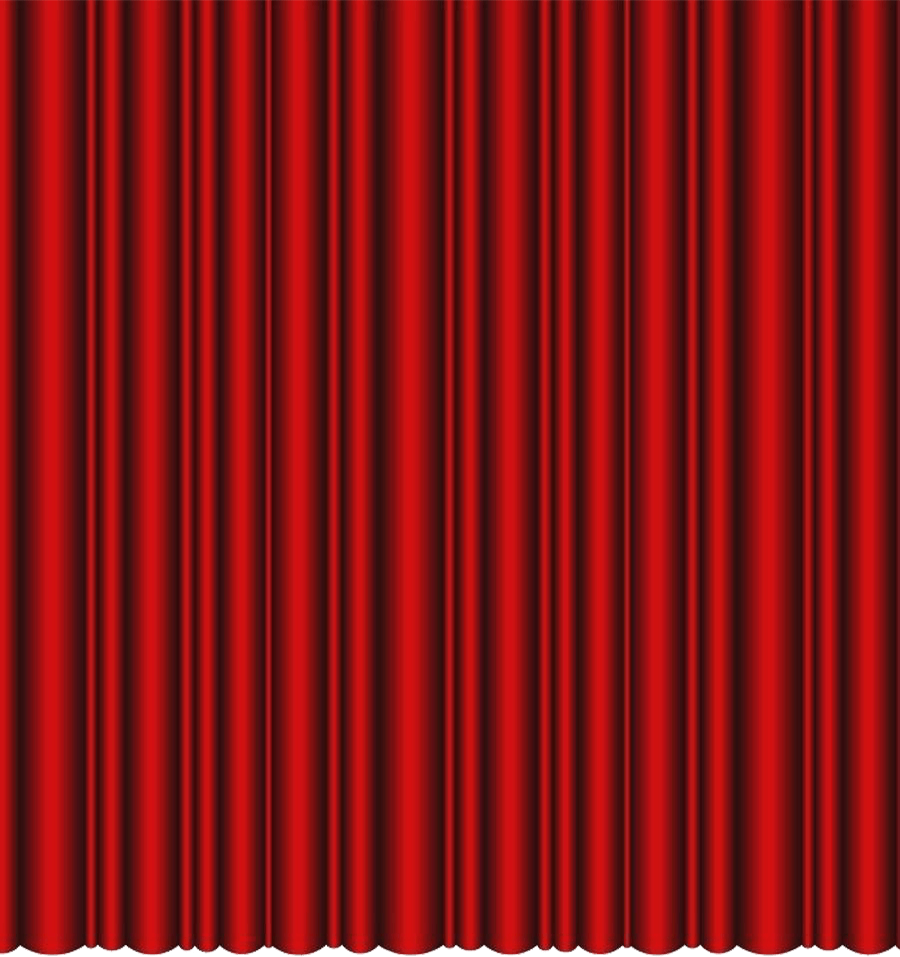
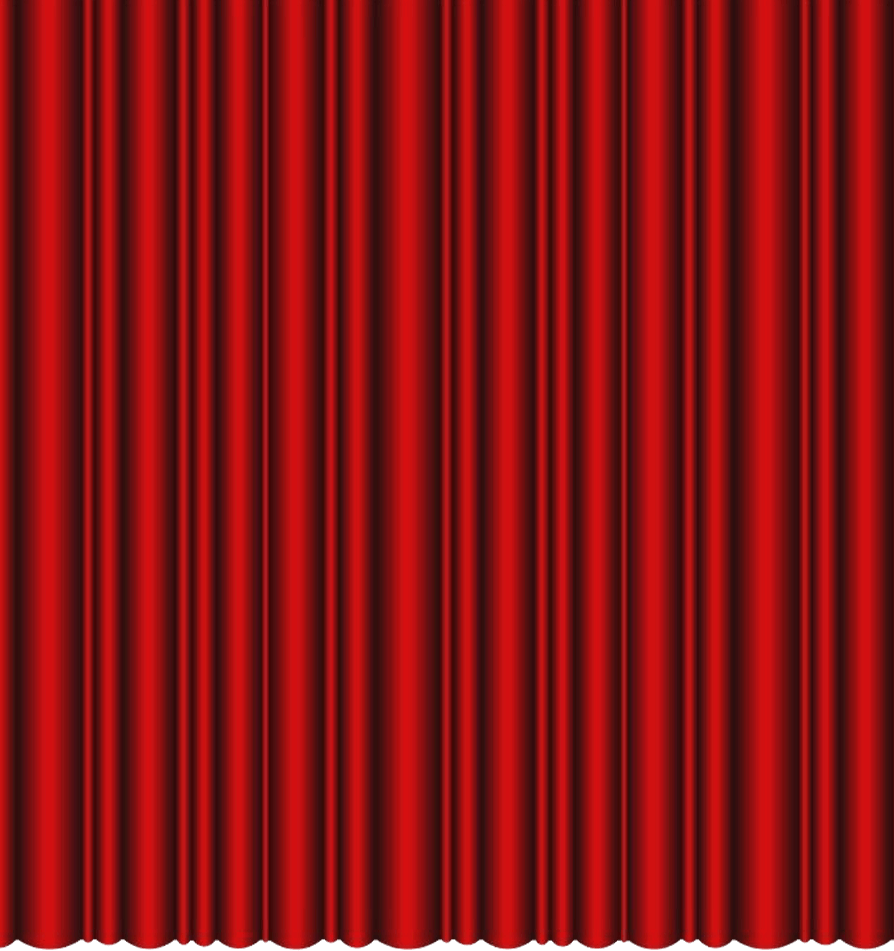
Changed title to png for curved text

diff --git a/css/styles.css b/css/styles.css
@@ -155,7 +155,7 @@ body {
     top: 0;
     left: 0;
     width: 50vw;
-    height: 102vh;
+    height: 91vh;
     z-index: 99995;
     animation: moveleft ease 5s forwards;
     animation-delay: 4s;
@@ -167,7 +167,7 @@ body {
     top: 0;
     right: 0;
     width: 50vw;
-    height: 102vh;
+    height: 91vh;
     z-index: 99995;
     animation: moveright ease 5s forwards;
     animation-delay: 4s;
@@ -225,7 +225,7 @@ body {
     background-repeat: repeat-x;
     bottom: -50px;
     left: 0;
-    z-index: 99999;
+    z-index: 99994;
 }
 
 .monkey-1 {
@@ -255,6 +255,7 @@ body {
 }
 
 
+/*
 h1 {
     font-family: 'Shrikhand', cursive;
     position: absolute;
@@ -268,8 +269,21 @@ h1 {
     margin-right: -50%;
     transform: translate(-50%, -50%)
 }
+*/
 
-
+.title {
+    position: absolute;
+    display: flex;
+    justify-content: center;
+    top: 135px;
+    left: 50%;
+    transform: translateX(-50%);
+    z-index: 999;
+    max-width: 50vw;
+    -webkit-filter: drop-shadow(2px 2px 1px rgb(0, 0, 0, .3));
+    filter: drop-shadow(2px 2px 1px rgb(0, 0, 0, .3));
+    z-index: 9;
+}
 
 
 

diff --git a/index.html b/index.html
@@ -60,9 +60,9 @@
 <img class="monkey-1" src="images/sock-monkey-1.png" alt="">
     
 
-<h1>brianisstupid.com</h1>
+<!--<h1>brianisstupid.com</h1>-->
     
-
+<img class="title" src="images/title.png" alt="">
 
 
 </body>
